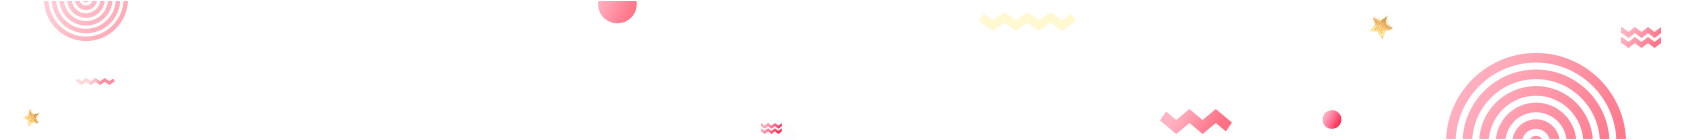
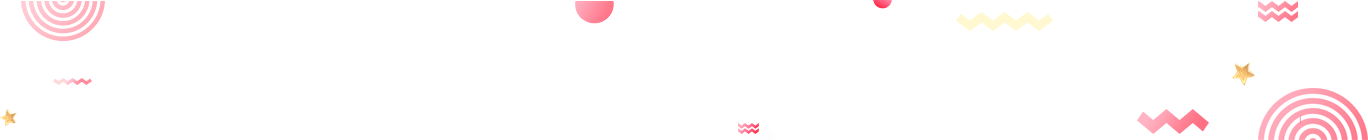
图片

diff --git a/static/css/index.css b/static/css/index.css
@@ -1,6 +1,6 @@
 body {
     font-family: 'Monaco', 'Microsoft YaHei', 'Helvetica', 'Arial', 'SimHei', 'sans-serif';
-    background: #f7f7f7 url(http://littlewhitechen.github.io/img/index/index_bg2.png) no-repeat -22px 76px;
+    background: #f7f7f7 url(http://littlewhitechen.github.io/img/index/index_bg2.png) no-repeat -18px 76px;
 }
 
 article p {
